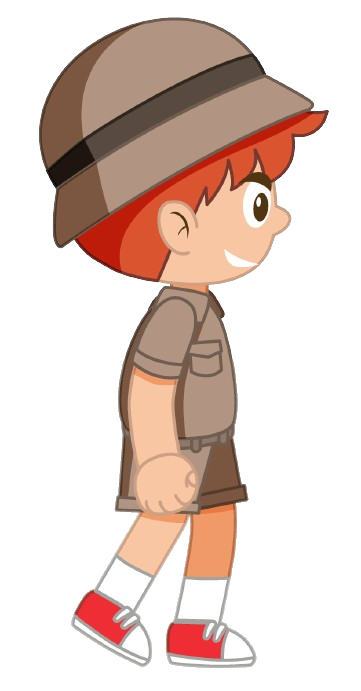
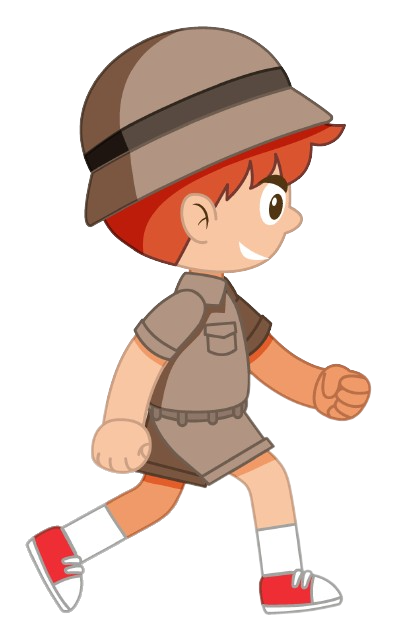
interchange sprites, fix posture

diff --git a/main.py b/main.py
@@ -10,20 +10,49 @@ title = pygame.display.set_caption("Njoro The Explorer")
 bg = pygame.image.load('assets/images/jungle.jpg')
 bg = pygame.transform.scale(bg, (WINDOW_WIDTH, WINDOW_HEIGHT))
 
-njoro = pygame.image.load("./assets/images/player/walking/kid2.png")
+# njoro = pygame.image.load("./assets/images/player/walking/kid2.png")
+# njoro = pygame.transform.scale(njoro, (150, 240))
 
 class Player(pygame.sprite.Sprite):
-    def __init__(self):
+    def __init__(self, pos_x, pos_y):
         super().__init__()
-        self.image = njoro  # Use the loaded sprite image
+        self.is_animating = False
+        self.sprites = []
+        self.w = 120
+        self.h = 200
+        self.sprites.append(pygame.transform.scale(pygame.image.load('./assets/images/player/walking/kid1.png'), (self.w, self.h) ))
+        self.sprites.append(pygame.transform.scale(pygame.image.load('./assets/images/player/walking/kid2.png'), (self.w, self.h)))
+        self.sprites.append(pygame.transform.scale(pygame.image.load('./assets/images/player/walking/kid3.png'), (self.w, self.h)))
+        self.sprites.append(pygame.transform.scale(pygame.image.load('./assets/images/player/walking/kid4.png'), (self.w, self.h)))
+        self.sprites.append(pygame.transform.scale(pygame.image.load('./assets/images/player/walking/kid5.png'), (self.w, self.h)))
+        self.sprites.append(pygame.transform.scale(pygame.image.load('./assets/images/player/walking/kid6.png'), (self.w, self.h)))
+        self.current_sprite = 0
+        self.image = self.sprites[self.current_sprite]
+
         self.rect = self.image.get_rect()
-        self.rect.center = (WINDOW_WIDTH // 2, WINDOW_HEIGHT // 2) 
+        self.rect.topright = [WINDOW_WIDTH/3, WINDOW_HEIGHT - self.rect.height]
+    
+
+
+    def update(self):
+        if self.is_animating == True:
+            self.current_sprite += 0.1
+            if self.current_sprite >= len(self.sprites):
+                self.current_sprite = 0
+                self.is_animating = False
+            self.image = self.sprites[int(self.current_sprite)]
+        else:
+            self.current_sprite = 0
+
+    
+    def animate(self):
+        self.is_animating = True
 
 running = True
 i = 0
 
 all_sprites = pygame.sprite.Group()
-player = Player()
+player = Player(300, 100)
 all_sprites.add(player)
 
 while running:
@@ -31,6 +60,11 @@ while running:
     for event in pygame.event.get():
         if event.type == pygame.QUIT:
             running = False
+
+        if event.type == pygame.K_UP:
+            if event.key == K_RIGHT:
+                player.update()
+
     if keys[pygame.K_RIGHT]:
         screen.fill((0,0,0))
         screen.blit(bg, (i, 0))
@@ -39,13 +73,11 @@ while running:
             screen.blit(bg,(WINDOW_WIDTH+i,0))
             i=0
             print("Right key pressed")
-        i-=5
+        i-=2
+        player.animate()
+
     all_sprites.update()
-
     all_sprites.draw(screen)
-
-
-
 
     pygame.display.update()
 
